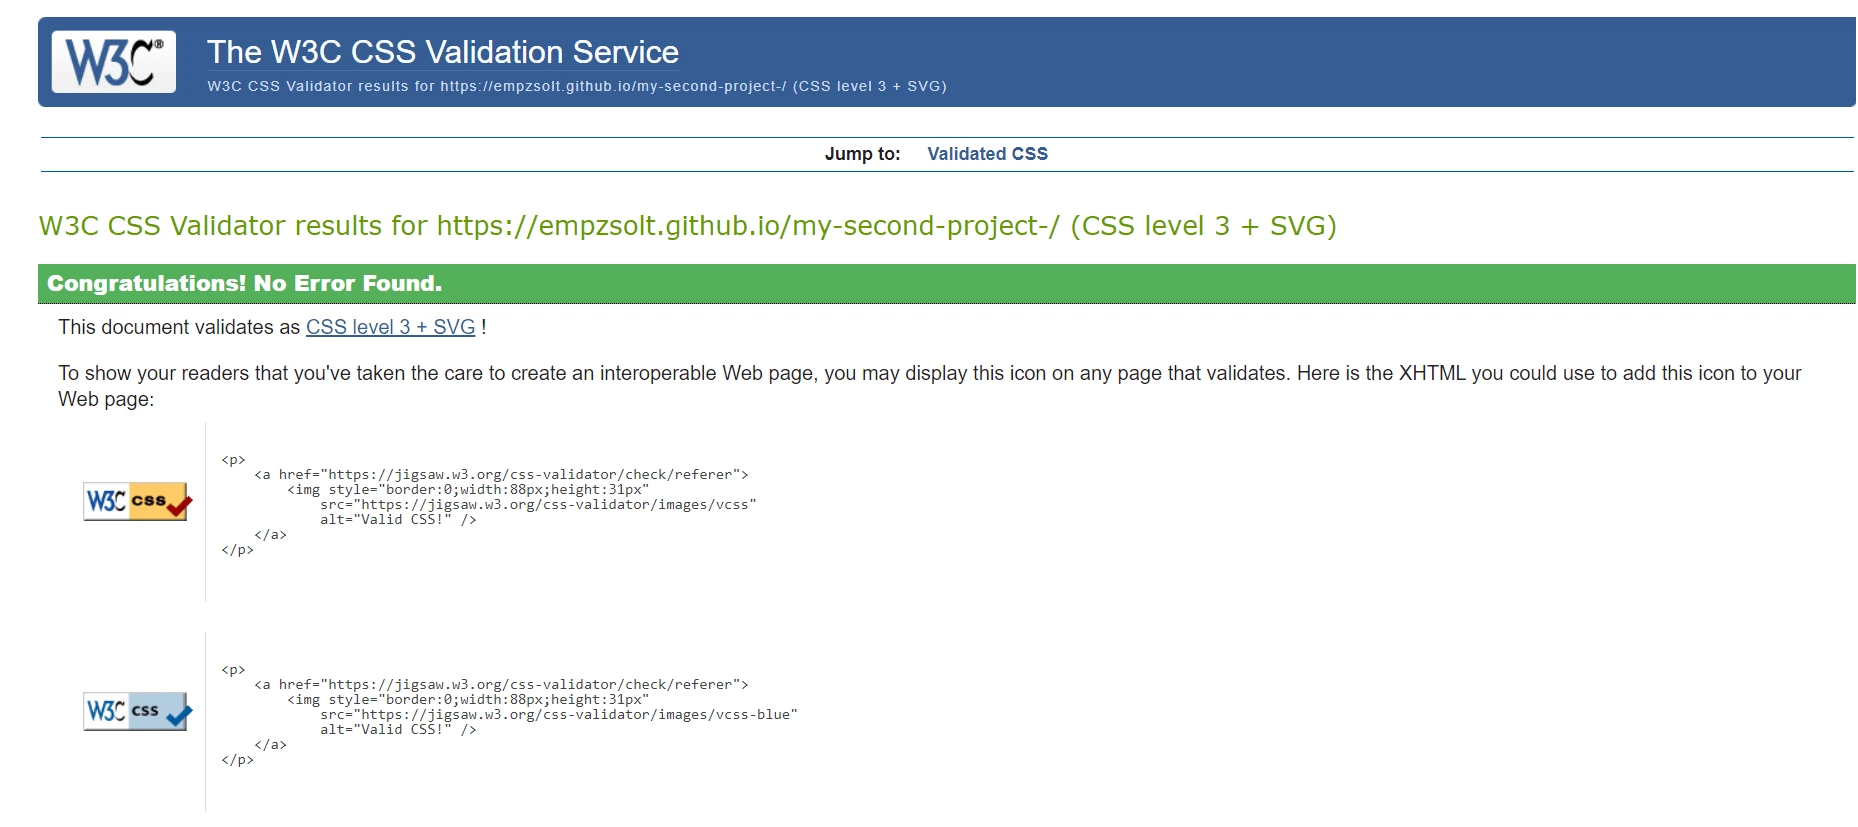
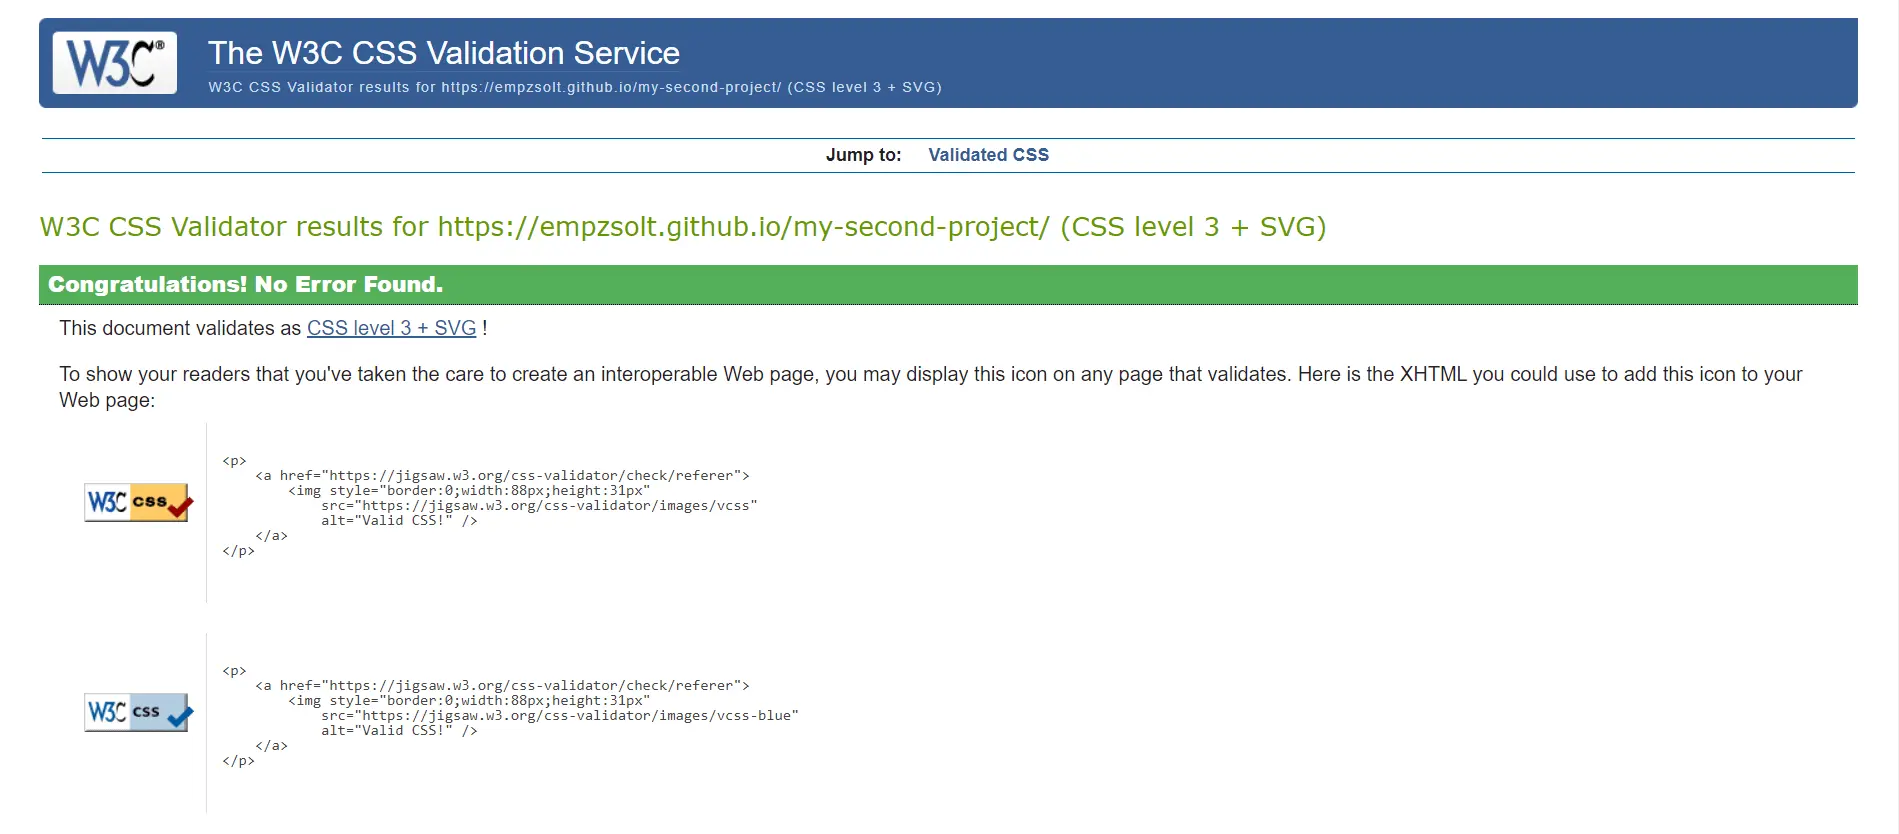
Replace the validator and results images in the README.md file

diff --git a/README.md b/README.md
@@ -1,5 +1,5 @@
 # Rock - Paper - Scissors
-## [my-second-project](https://empzsolt.github.io/my-second-project-/)
+## [my-second-project](https://empzsolt.github.io/my-second-project/)
 The simple "Rock, Paper, Scissors" is an interesting game. As we used to settle disputes in the past, now it offers an easily accessible online entertainment. In its current version, the fight is against a randomly choosing computer, which ensures a fair game.
 
 The game users can relive their childhood and test their patience and luck during an easy game. It can help promote problem-solving thinking. Finally, it can cause happy moments for people of all ages.
@@ -84,7 +84,7 @@ Am I Responsive? - To show the website image on a range of devices.
 Paint - To cut the images to the right size.
 ## Deployment and Local Development
 ### Deployment
-The site is deployed using GitHub Pages. Visit the deployed site [here](https://empzsolt.github.io/my-second-project-/). To deploy using GitHub pages:
+The site is deployed using GitHub Pages. Visit the deployed site [here](https://empzsolt.github.io/my-second-project/). To deploy using GitHub pages:
  1. Login or Sign Up to GitHub.
  2. Open the project repository.
  3. Click on "Settings" on the navigation bar under the repository title.
@@ -97,12 +97,12 @@ The site is deployed using GitHub Pages. Visit the deployed site [here](https://
 #### How to Fork
 To fork the Rock - Paper - Scissors repository:
 1. Log in (or sign up) to Github.
-2. Go to the repository for this project, EMPZsolt/my-second-project-.
+2. Go to the repository for this project, EMPZsolt/my-second-project.
 3. Click the Fork button in the top right corner.
 #### How to Clone
 To clone the Rock - Paper - Scissors repository:
 Log in (or sign up) to GitHub.
-Go to the repository for this project, EMPZsolt/my-second-project-.
+Go to the repository for this project, EMPZsolt/my-second-project.
 Click on the code button, select whether you would like to clone with HTTPS, SSH or GitHub CLI and copy the link shown.
 Open the terminal in your code editor and change the current working directory to the location you want to use for the cloned directory.
 Type 'git clone' into the terminal and then paste the link you copied in step 3. Press enter.
